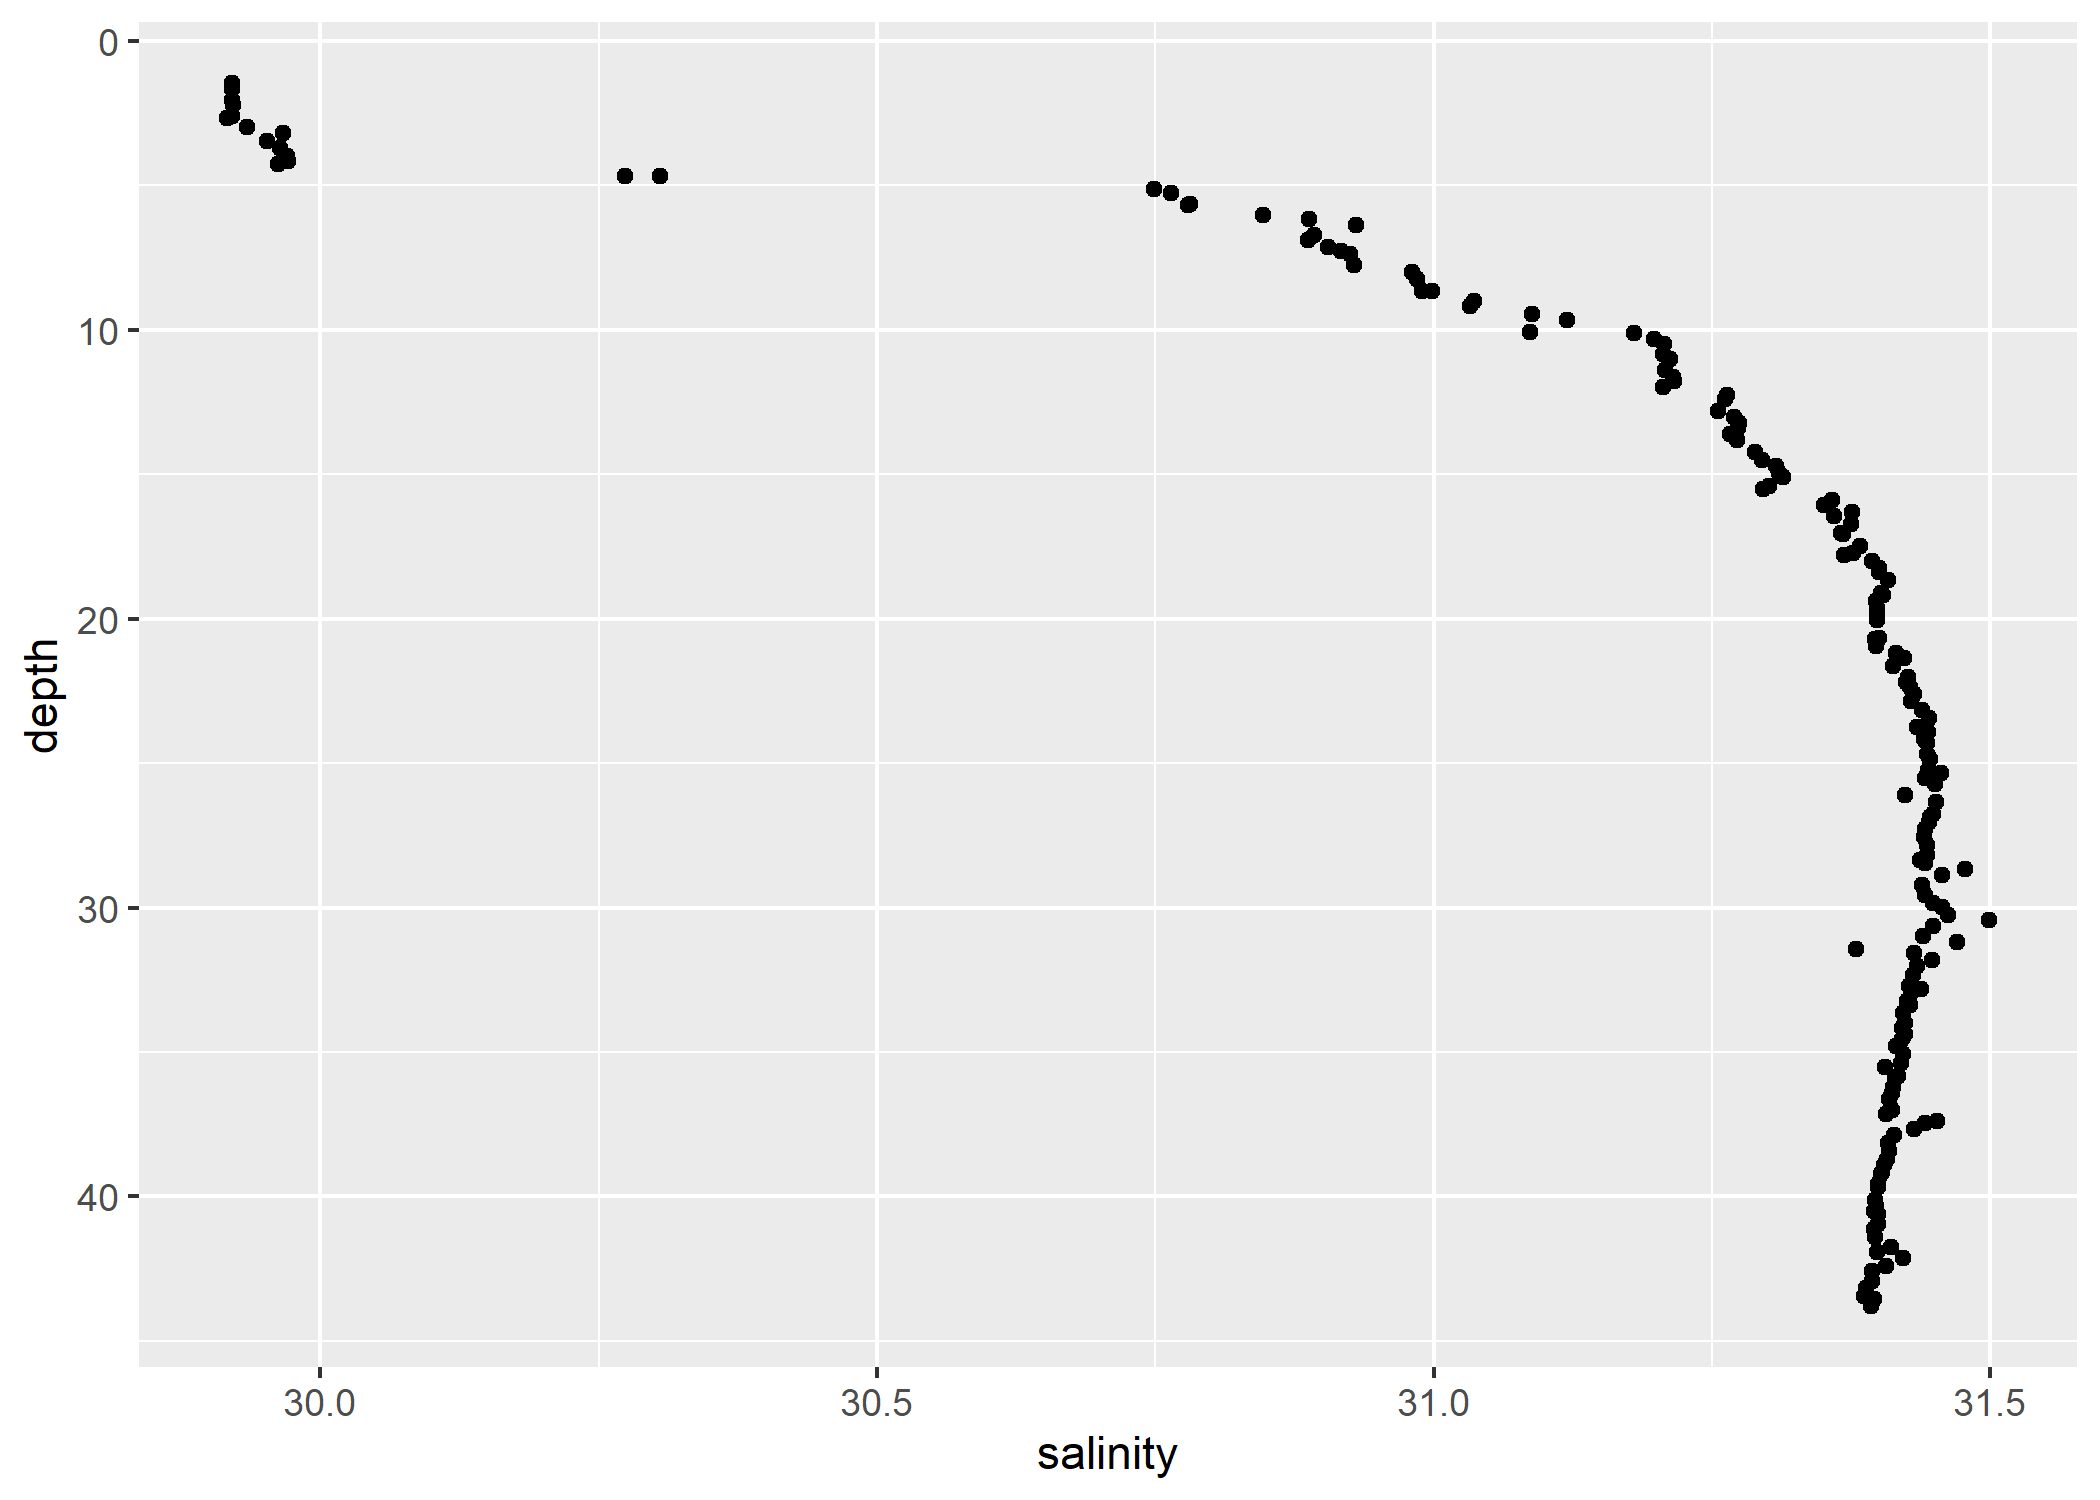
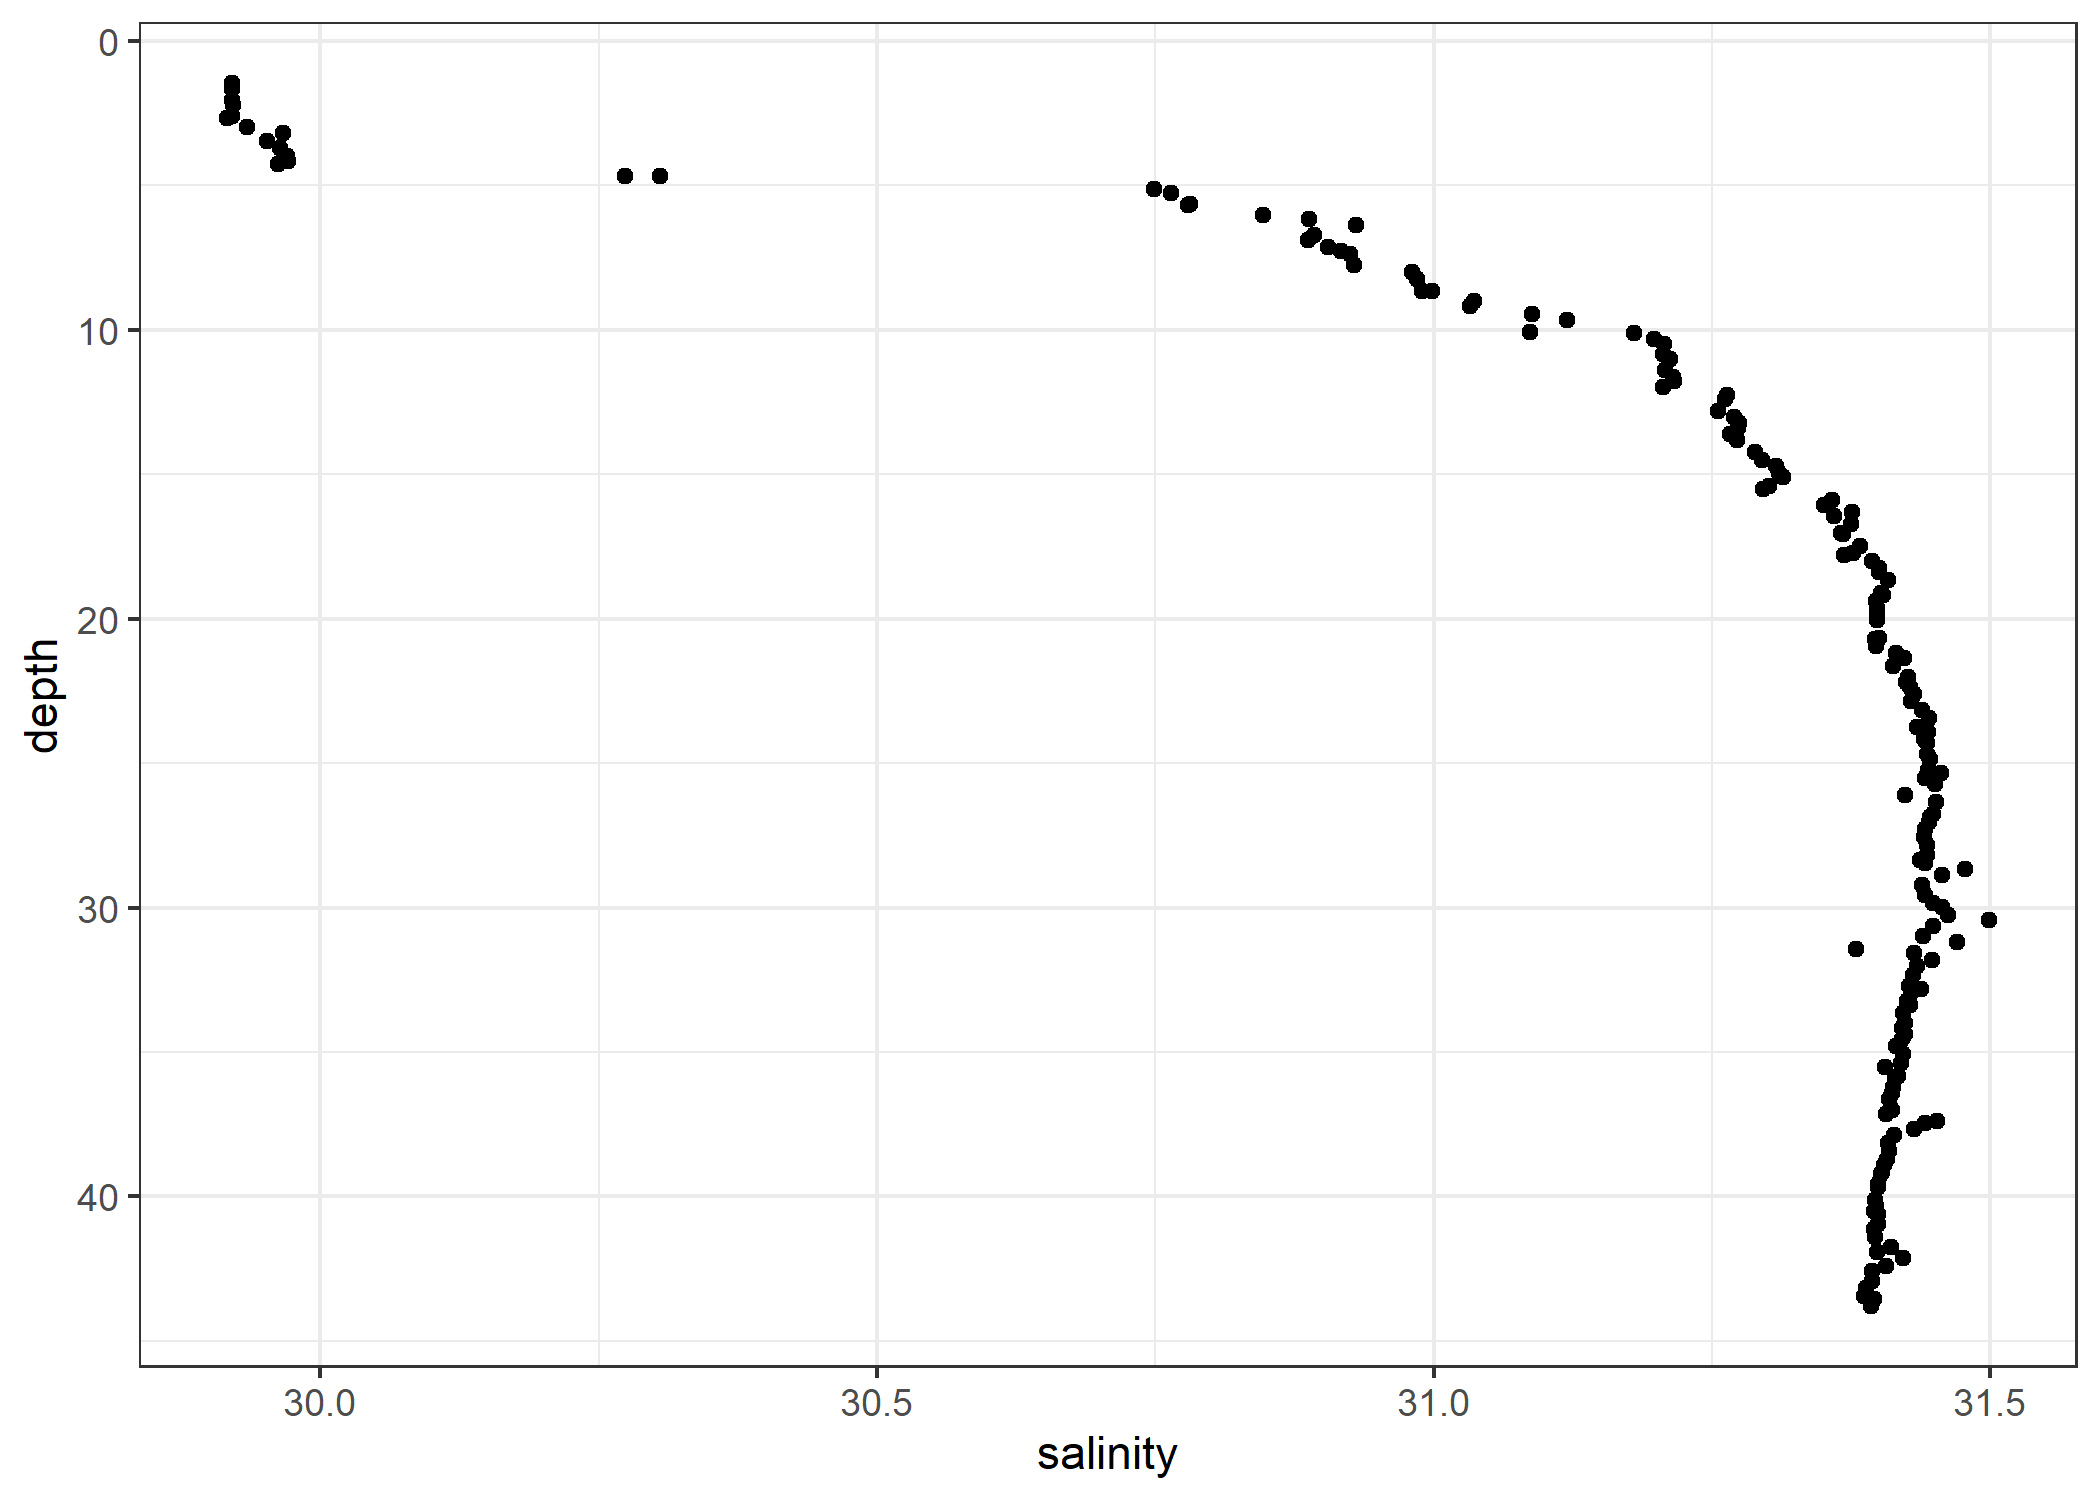
update readme

diff --git a/README.md b/README.md
@@ -35,6 +35,7 @@ This is a basic example which shows you how to solve a common problem:
 ``` r
 library(ggplot2)
 library(ggoce)
+theme_set(theme_oce())
 data(ctd, package = "oce")
 
 ggplot(ctd, aes(x = salinity, y = depth)) +
@@ -43,3 +44,14 @@ ggplot(ctd, aes(x = salinity, y = depth)) +
 ```
 
 <img src="man/figures/README-example-1.png" width="100%" />
+
+``` r
+data(section, package = "oce")
+
+ggplot(section, aes(distance, pressure)) +
+  geom_point(aes(col = temperature)) +
+  scale_y_reverse() +
+  scale_colour_viridis_b()
+```
+
+<img src="man/figures/README-example-sec-1.png" width="100%" />
